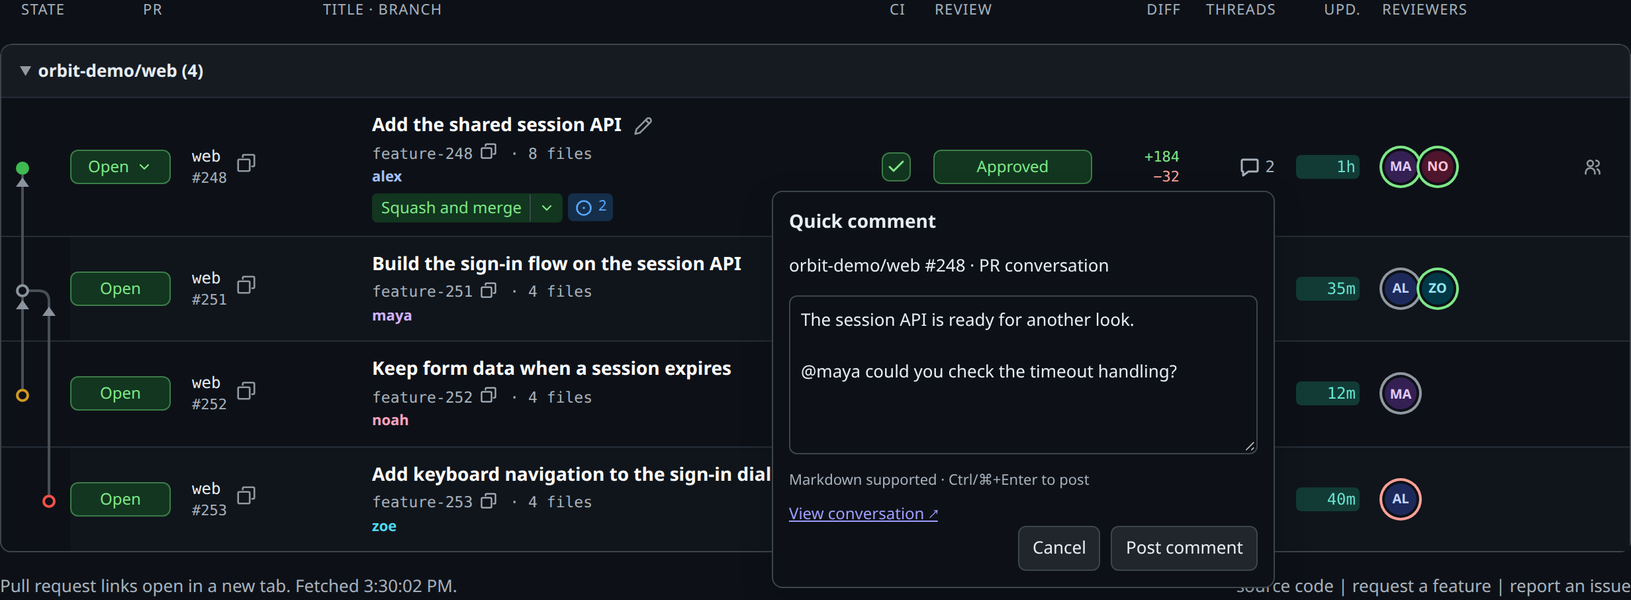
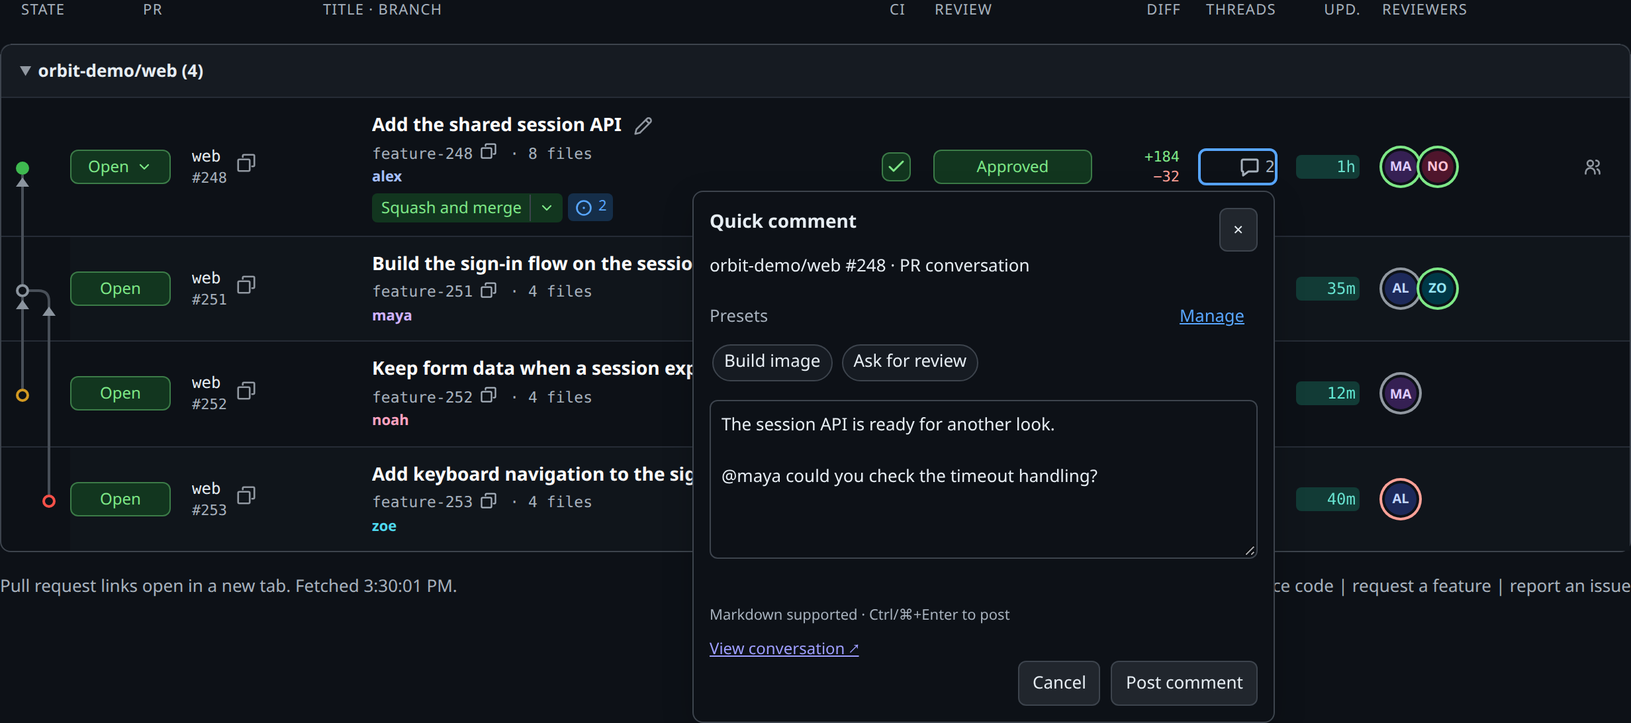
Add scoped quick comment presets to the dashboard

diff --git a/public/quick-presets.js b/public/quick-presets.js
@@ -1,0 +1,34 @@
+import { html, render, repeat, nothing } from './vendor/lit-html.js';
+import { presetErrors, orgPattern, repoPattern } from './preset-model.js';
+export let presets = [];
+let account, editor, deleting, busy=false, status='', retry, undo, errors={};
+const $ = id => document.getElementById(id);
+const focus = id => $(id)?.focus();
+async function request(input) {
+  const r = await fetch('/api/quick-comments', input ? {method:'POST', headers:{'Content-Type':'application/json'}, body:JSON.stringify({...input,account})} : {});
+  const data = await r.json(); if (!r.ok) throw Error(data.error || 'Cannot load quick comments.');
+  account = data.account; presets = data.presets;
+}
+export async function loadPresets() { try { await request(); } catch (e) { status=e.message; retry=loadPresets; } draw(); }
+export function openSettings(create=false) { const d=$('settings-dialog'); if (!d.open) d.showModal(); if(create) edit(); else draw(); }
+function reset(){ editor=null; deleting=null; errors={}; retry=null; undo=null; status=''; }
+function edit(p){ reset(); editor={...p,label:p?.label??'',body:p?.body??'', scoped:p?.repos!==undefined||p?.orgs!==undefined,repos:[...(p?.repos??[])],orgs:[...(p?.orgs??[])],pending:{repos:'',orgs:''}};draw();focus('pf-label'); }
+function cancel(){const id=editor?.id, del=deleting;reset();draw();focus(del?'del-'+del:id?'edit-'+id:'new-preset');}
+async function change(input,done){if(busy)return;busy=true;retry=null;status='Saving…';draw();try{await request(input);busy=false;reset();done();}catch(e){busy=false;status=input.action==='save'?`Couldn’t save “${input.label}”. Your changes are still in the form. ${e.message}`:e.message;retry=()=>change(input,done);draw();}}
+function token(k){const v=editor.pending[k].trim();if(!v)return true;const ok=k==='repos'?repoPattern:orgPattern;
+  if(!ok.test(v)) errors[k]=k==='repos'?'Use owner/name, like nyxlabs/nyx.':'Use an org or user name, like nyxlabs.';
+  else if(editor[k].some(x=>x.toLowerCase()===v.toLowerCase()))errors[k]=`${v} is already added.`;
+  else{editor[k].push(v);editor.pending[k]='';delete errors[k];delete errors.scope;}draw();focus('pf-'+k);return !errors[k];}
+function submit(e){e.preventDefault();const {id,label,body,scoped}=editor;errors={};if(scoped){for(const k of ['repos','orgs'])token(k);}const p={id,label,body,...(scoped?{repos:editor.repos,orgs:editor.orgs}:{})};errors={...presetErrors(p,presets),...errors};if(Object.keys(errors).length){draw();focus('pf-'+(['label','body','repos','orgs','scope'].find(k=>errors[k])));return;}void change({action:'save',...p},()=>{status=`${id?'Saved':'Added'} “${label.trim()}”.`;draw();focus('edit-'+presets.find(x=>x.label===label.trim()).id);});}
+function move(p,delta){void change({action:'move',id:p.id,delta},()=>{status=`Moved “${p.label}” to position ${presets.findIndex(x=>x.id===p.id)+1} of ${presets.length}.`;draw();focus('edit-'+p.id);});}
+function remove(p,i){void change({action:'delete',id:p.id},()=>{status=`Deleted “${p.label}”.`;undo=()=>change({action:'restore',...p,position:i},()=>{status=`Restored “${p.label}”.`;draw();focus('edit-'+p.id);});draw();focus('undo-preset');});}
+function preview(p){if(!p.scoped)return 'Shows on every pull request.';const parts=[p.repos.length&&'PRs in '+p.repos.join(' or '),p.orgs.length&&'any repo owned by '+p.orgs.join(' or ')].filter(Boolean);return parts.length?'Shows on '+parts.join(', or in ')+'.':'No repositories selected.';}
+function msg(k){return html`<small class="preset-error" id=${'msg-'+k}>${errors[k]??''}</small>`;}
+function tokens(k){return html`<label for=${'pf-'+k}>${k==='repos'?'Repositories':'Organizations or users'}</label><div class="preset-tokens">${editor[k].map(v=>html`<button type="button" aria-label=${'Remove '+v} @click=${()=>{editor[k]=editor[k].filter(x=>x!==v);draw();focus('pf-'+k);}}>${v} ×</button>`)}<input id=${'pf-'+k} aria-invalid=${!!errors[k]} aria-describedby=${'msg-'+k} placeholder=${k==='repos'?'owner/name':'org or user'} .value=${editor.pending[k]} @input=${e=>{editor.pending[k]=e.target.value;delete errors[k];draw();}} @keydown=${e=>{if(e.key==='Enter'){e.preventDefault();token(k);}}}><button type="button" @click=${()=>token(k)}>Add</button></div>${msg(k)}`;}
+function form(){return html`<form class="preset-form" novalidate @submit=${submit}><fieldset ?disabled=${busy}><legend>${editor.id?'Edit':'New'} preset</legend><label for="pf-label">Label</label><input id="pf-label" maxlength="40" placeholder="Build image" aria-invalid=${!!errors.label} aria-describedby="msg-label" .value=${editor.label} @input=${e=>{editor.label=e.target.value;delete errors.label;draw();}}>${msg('label')}<label for="pf-body">Comment body</label><textarea id="pf-body" maxlength="4000" placeholder="[docker-build]" aria-invalid=${!!errors.body} aria-describedby="msg-body" .value=${editor.body} @input=${e=>{editor.body=e.target.value;delete errors.body;draw();}}></textarea>${msg('body')}<fieldset><legend>Show on</legend>${[false,true].map(s=>html`<label><input type="radio" name="scope" .checked=${s===editor.scoped} @change=${()=>{editor.scoped=s;errors={};draw();if(s)focus('pf-repos');}}> ${s?'Only these repositories or organizations':'Every repository'}</label>`)}</fieldset>${editor.scoped?html`${tokens('repos')}${tokens('orgs')}`:nothing}<p id="pf-scope" tabindex="-1">${preview(editor)}</p>${msg('scope')}<div class="preset-actions"><button type="button" @click=${cancel}>Cancel</button><button class="primary" type="submit">${busy?'Saving…':'Save preset'}</button></div></fieldset></form>`;}
+function row(p,i){if(editor?.id===p.id)return form();if(deleting===p.id)return html`<strong>Delete “${p.label}”?</strong><p>This removes the preset, not any posted comments.</p><button @click=${cancel}>Cancel</button> <button class="preset-error" id="confirm-preset" @click=${()=>remove(p,i)}>Delete preset</button>`;
+  const tags=[...(p.repos??[]),...(p.orgs??[]).map(o=>'org '+o)];if(!tags.length)tags.push(p.repos||p.orgs?'No repositories':'All repositories');
+  return html`<div class="preset-item"><span class="preset-number">${i+1}</span><div><strong>${p.label}</strong><code>${p.body}</code><small>Shows on ${tags.slice(0,3).map(t=>html`<span class="scope-badge">${t}</span>`)} ${tags.length>3?html`<span title=${tags.slice(3).join(', ')}>+${tags.length-3} more</span>`:nothing}</small></div><div class="preset-actions"><button aria-label=${'Move '+p.label+' up'} ?disabled=${busy||!i} @click=${()=>move(p,-1)}>↑</button><button aria-label=${'Move '+p.label+' down'} ?disabled=${busy||i===presets.length-1} @click=${()=>move(p,1)}>↓</button><button id=${'edit-'+p.id} ?disabled=${busy} @click=${()=>edit(p)}>Edit</button><button id=${'del-'+p.id} ?disabled=${busy} @click=${()=>{reset();deleting=p.id;draw();focus('confirm-preset');}}>Delete</button></div></div>`;}
+function draw(){render(html`<div class="preset-heading"><div><h2>Quick comment presets</h2><p>Save comments you post often. Presets appear in this order on matching pull requests.</p></div>${presets.length?html`<button class="primary" id="new-preset" ?disabled=${busy} @click=${()=>edit()}>+ Add preset</button>`:nothing}</div><div class="preset-status" role="status">${status} ${retry?html`<button @click=${retry}>Retry</button>`:undo?html`<button id="undo-preset" @click=${undo}>Undo</button>`:nothing}</div>${editor&&!editor.id?form():nothing}${!presets.length&&!editor?html`<div class="preset-empty"><strong>No presets yet</strong><p>Save comments you post often, like [docker-build] or @claude_review.</p><button class="primary" id="new-preset" @click=${()=>edit()}>Create your first preset</button></div>`:nothing}<ol class="preset-list">${repeat(presets,p=>p.id,(p,i)=>html`<li>${row(p,i)}</li>`)}</ol><small>Saved to your local config for this GitHub account.</small>`,$('quick-comment-editor'));}
+$('settings-dialog').addEventListener('cancel',e=>{if(busy||editor||deleting){e.preventDefault();if(!busy)cancel();}});
+$('settings-dialog').addEventListener('close',reset);

diff --git a/public/comments.js b/public/comments.js
@@ -1,10 +1,14 @@
-import { html, render, nothing } from './vendor/lit-html.js';
+import { html, render, repeat, nothing } from './vendor/lit-html.js';
 import { actionButton, formField, formError, formActions } from './controls.js';
 import { githubUrl } from './templates.js';
+import { insertPreset } from './preset-model.js';
+import { presets, openSettings } from './quick-presets.js';
+import { matchesQuickComment } from './quick-comment-scope.js';
 import { createPopover } from './popover.js';
 
 export function createCommentControls({ changes, submit, onClose }) {
-  let active;
+  let active, more=false, filter='', note='';
+  const narrow=matchMedia('(max-width: 37.5em)'); narrow.addEventListener('change',()=>content());
   const popover = createPopover({ id: 'quick-comment', className: 'comment-popover', label: 'Quick comment', align: 'end',
     onClose() {
       if (!active) return;
@@ -16,17 +20,25 @@ export function createCommentControls({ changes, submit, onClose }) {
   function content() {
     const pr = active, draft = pr && changes.get(pr.id);
     if (!draft) return;
+    const all=presets.filter(p=>matchesQuickComment(p,pr.repo)), limit=narrow.matches?3:5;
+    const shown=all.length>limit+1?all.slice(0,limit):all, rest=all.slice(shown.length);
+    const results=(filter.trim()?all:rest).filter(p=>(p.label+' '+p.body).toLowerCase().includes(filter.trim().toLowerCase()));
+    const pick=p=>{if(draft.saving)return;const next=insertPreset(draft.value,p.body);note=next===draft.value?`“${p.label}” is already in the draft. Nothing added.`:next.length>4000?'This preset would exceed the comment length limit.':`Inserted “${p.label}”. Review it, then post.`;if(next.length<=4000)draft.value=next;more=false;filter='';content();const t=popover.panel.querySelector('textarea');t.focus();t.setSelectionRange(t.value.length,t.value.length);};
+    const toggle=()=>{more=!more;filter='';content();popover.panel.querySelector(more?'.preset-filter':'.preset-more')?.focus();};
+    const manage=(create=false)=>{popover.close();openSettings(create);};
     render(html`<form @submit=${event => {
       event.preventDefault();
       if (!draft.saving && draft.value.trim()) void submit(pr, draft);
     }} @keydown=${event => {
+      if(event.key==='Escape' && more){event.preventDefault();event.stopPropagation();toggle();return;}
       if ((event.ctrlKey || event.metaKey) && event.key === 'Enter') { event.preventDefault(); event.currentTarget.requestSubmit(); }
     }}>
-      <h2>Quick comment</h2>
+      <button type="button" class="preset-close" aria-label="Close quick comment" @click=${()=>popover.close()}>×</button><h2>Quick comment</h2>
       <p class="form-description">${pr.repo} #${pr.number} · PR conversation</p>
+      ${document.getElementById('settings').hidden?nothing:html`<div class="preset-picker" role="group" aria-label="Presets"><div class="preset-caption">Presets <button type="button" @click=${()=>manage()}>Manage</button></div>${shown.length?html`<div class="preset-chips">${repeat(shown,p=>p.id,p=>html`<button type="button" ?disabled=${draft.saving} class=${draft.value.includes(p.body)?'in-draft':''} aria-label=${p.label+(draft.value.includes(p.body)?', already in draft':', inserts '+p.body)} title=${'Inserts: '+p.body} @click=${()=>pick(p)}>${draft.value.includes(p.body)?'✓ ':''}${p.label}</button>`)}${rest.length?html`<button class="preset-more" type="button" aria-expanded=${more} @click=${toggle}>More (${rest.length}) ▾</button>`:nothing}</div>`:html`<p class="preset-hint">${presets.length?`None of your ${presets.length} presets apply to ${pr.repo}.`:'No presets yet. Save comments you post often, like [docker-build], and they appear here.'} <button type="button" @click=${()=>manage(!presets.length)}>${presets.length?'Edit scopes':'Create a preset'}</button></p>`}${more&&rest.length?html`<div class="preset-overflow"><label>All presets for ${pr.repo}<input class="preset-filter" placeholder="Filter presets…" .value=${filter} @input=${e=>{filter=e.target.value;content();}} @keydown=${e=>{if(e.key==='Enter'){e.preventDefault();if(results[0])pick(results[0]);}}}></label>${repeat(results,p=>p.id,p=>html`<button type="button" @click=${()=>pick(p)}>${p.label} · <code>${p.body}</code></button>`)}${results.length?nothing:`No presets match “${filter}”.`}</div>`:nothing}</div>`}
       ${formField({ label: 'Comment', value: draft.value, multiline: true, maxLength: 4000, disabled: draft.saving,
-        onInput(value) { draft.value = value; content(); } })}
-      <p class="comment-help">Markdown supported · Ctrl/⌘+Enter to post</p>
+        onInput(value) { draft.value = value; note=''; content(); } })}
+      <div class="preset-note" role="status">${note}</div><p class="comment-help">Markdown supported · Ctrl/⌘+Enter to post</p>
       ${formError(draft.error)}
       <a class="comment-conversation" href=${githubUrl(pr.url)} target="_blank" rel="noopener noreferrer">View conversation ↗</a>
       ${formActions({ saving: draft.saving, disabled: !draft.value.trim(), submitLabel: 'Post comment', pendingLabel: 'Posting…', onCancel() {
@@ -49,7 +61,7 @@ export function createCommentControls({ changes, submit, onClose }) {
           if (active && active.id !== pr.id) {
             const previous = changes.get(active.id); if (previous) previous.editing = false;
           }
-          active = pr;
+          active = pr; more=false; filter=''; note='';
           const draft = changes.get(pr.id) ?? { value: '', saving: false, error: '' };
           draft.editing = true; changes.set(pr.id, draft);
           popover.attach(event.currentTarget); content();

diff --git a/public/presets.css b/public/presets.css
@@ -1,0 +1,1 @@
+#settings-dialog{color:var(--color-text);background:var(--color-page);border:1px solid var(--color-border);border-radius:10px;width:min(780px,calc(100% - 24px));max-height:90dvh;padding:0;overscroll-behavior:contain}#settings-dialog::backdrop{background:#0008;overflow:hidden;overscroll-behavior:contain}.preset-top,.preset-heading,.preset-caption,.preset-actions{display:flex;align-items:center;justify-content:space-between;gap:8px}.preset-top{padding:12px 18px;border-bottom:1px solid var(--color-border);background:var(--color-surface)}#quick-comment-editor{padding:18px}#quick-comment-editor h2{margin:0;font-size:1.05rem}#quick-comment-editor p{margin:4px 0 12px;color:var(--color-muted)}.preset-heading button,.preset-actions button{white-space:nowrap}.preset-list{list-style:none;padding:0;margin:10px 0;border:1px solid var(--color-border);border-radius:8px;overflow:hidden}.preset-list:empty{display:none}.preset-list li{padding:12px}.preset-list li+li{border-top:1px solid var(--color-divider)}.preset-item{display:grid;grid-template-columns:1.5rem minmax(0,1fr) auto;align-items:start;gap:8px}.preset-item code{display:block;white-space:pre-wrap;overflow-wrap:anywhere;color:var(--color-muted)}.preset-item small,.preset-number{color:var(--color-muted)}.preset-actions{justify-content:flex-end;flex-wrap:wrap}.scope-badge,.preset-tokens button,.preset-chips button{display:inline-flex;border:1px solid var(--color-border);border-radius:999px;padding:2px 8px;margin:2px;background:var(--color-surface)}.preset-form{padding:12px;border:1px solid var(--color-border);border-radius:8px;background:var(--color-surface)}.preset-form>fieldset{border:0;min-width:0;padding:0}.preset-form label,.preset-form textarea,.preset-form input:not([type=radio]){display:block}.preset-form label{margin-top:8px;font-weight:600}.preset-form input:not([type=radio]),.preset-form textarea,.preset-filter{box-sizing:border-box;width:100%;padding:7px;background:var(--color-page);color:var(--color-text);border:1px solid var(--color-border);border-radius:6px;font:inherit}.preset-form textarea{min-height:70px}.preset-form fieldset fieldset{margin:8px 0;border:1px solid var(--color-divider)}.preset-tokens,.preset-chips{display:flex;flex-wrap:wrap;align-items:center;gap:3px}.preset-tokens input{flex:1;min-width:8em}.preset-error,[aria-invalid=true]{color:var(--color-danger,#cf4545)}.preset-note,.preset-status{min-height:1.3em;font-size:.8rem}.preset-empty,.preset-hint{padding:10px;border:1px dashed var(--color-border);border-radius:8px}.preset-empty{text-align:center;padding:28px}.preset-picker{margin:12px 0}.preset-caption{color:var(--color-muted);font-size:.8rem;margin-bottom:4px}.preset-caption button,.preset-hint button{background:transparent;border:0;color:var(--color-accent);text-decoration:underline}.preset-chips button{min-height:28px}.preset-chips .in-draft{color:var(--color-success,#299854);border-color:currentColor}.preset-close{float:right}.preset-overflow{padding:8px;margin-top:6px;border:1px solid var(--color-border);border-radius:6px;max-height:12rem;overflow:auto}.preset-overflow button{display:block;width:100%;text-align:left}.comment-count[aria-expanded=true]{outline:2px solid var(--color-accent)}.comment-popover{max-height:90dvh;overflow:auto;width:min(440px,calc(100vw - 16px))}@media(max-width:37.5em){.preset-item{grid-template-columns:1.5rem minmax(0,1fr)}.preset-item .preset-actions{grid-column:2;justify-content:start}.pr-row button.comment-count{min-height:32px}.pr-row button.comment-count:after{content:'Comment'}.comment-popover{width:calc(100vw - 16px)}.preset-heading{align-items:start}.preset-heading p{font-size:.85rem}}

diff --git a/public/index.html b/public/index.html
@@ -12,12 +12,17 @@
   <link rel="preload" href="/fonts/InterVariable-4.1.woff2" as="font" type="font/woff2" crossorigin>
   <link rel="stylesheet" href="/theme.css">
   <link rel="stylesheet" href="/style.css">
+  <link rel="stylesheet" href="/presets.css">
   <link rel="stylesheet" href="/query-editor.css">
   <script type="module" src="/app.js"></script>
 </head>
 <body>
   <div id="sticky-top">
-    <header><div><h1>gh-pull</h1><p class="subtitle">much better github pr dashboard</p></div><div class="account-controls"><a id="install" class="button-link" hidden target="_blank" rel="noopener noreferrer">Manage repository access</a><button id="logout" type="button" hidden>Sign out</button><button id="refresh" type="button" data-tooltip="Refresh" aria-label="Refresh" hidden><svg viewBox="0 0 36 36" fill="none" stroke="currentColor" stroke-width="1.5" stroke-linecap="round" stroke-linejoin="round" aria-hidden="true"><path d="M6.7 11.5A13 13 0 0 1 29.3 11.5M29.3 6.5v5h-5M29.3 24.5A13 13 0 0 1 6.7 24.5M6.7 29.5v-5h5"/></svg><span id="refresh-countdown" aria-hidden="true">60</span></button></div></header>
+    <header><div><h1>gh-pull</h1><p class="subtitle">much better github pr dashboard</p></div><div class="account-controls"><button type="button" id="settings" aria-haspopup="dialog" hidden>Settings</button><a id="install" class="button-link" hidden target="_blank" rel="noopener noreferrer">Manage repository access</a><button id="logout" type="button" hidden>Sign out</button><button id="refresh" type="button" data-tooltip="Refresh" aria-label="Refresh" hidden><svg viewBox="0 0 36 36" fill="none" stroke="currentColor" stroke-width="1.5" stroke-linecap="round" stroke-linejoin="round" aria-hidden="true"><path d="M6.7 11.5A13 13 0 0 1 29.3 11.5M29.3 6.5v5h-5M29.3 24.5A13 13 0 0 1 6.7 24.5M6.7 29.5v-5h5"/></svg><span id="refresh-countdown" aria-hidden="true">60</span></button></div></header>
+    <dialog id="settings-dialog" aria-labelledby="settings-heading">
+      <div class="preset-top"><strong id="settings-heading">gh-pull　/　Settings</strong><form method="dialog"><button type="submit">← Back to dashboard</button></form></div>
+      <section id="quick-comment-editor" aria-label="Quick comment presets"></section>
+    </dialog>
     <p id="auth-notice" role="alert" hidden></p>
     <p id="update-notice" role="status" hidden><a id="update-release" target="_blank" rel="noopener noreferrer"></a> is available. To update, run <button id="copy-update-command" type="button" data-tooltip="Copy update command" aria-label="Copy update command"><code id="update-command">gh pull stop &amp;&amp; gh extension upgrade pull &amp;&amp; gh pull</code> <span id="update-copy-symbol" aria-hidden="true"></span></button> in your terminal. <span id="update-copy-feedback"></span></p>
     <section id="signin" hidden aria-label="Sign in">

diff --git a/saved-views.js b/saved-views.js
@@ -2,6 +2,7 @@ import { mkdir, readFile, writeFile, rename, rm } from 'node:fs/promises';
 import { dirname, join } from 'node:path';
 import { homedir } from 'node:os';
 import { randomUUID } from 'node:crypto';
+import { presetErrors } from './public/preset-model.js';
 import lockfile from 'proper-lockfile';
 import { ApiError } from './github-client.js';
 import { DEFAULT_QUERY, normalizeQuery } from './public/query.js';
@@ -57,6 +58,31 @@ export function createSavedViewsStore(path = defaultSavedViewsPath(), now = () =
     } finally { await rm(temporary, { force: true }); await release(); }
   }
   return {
+    async quickComments(account) { return (await read()).accounts.find(a => a.login === account.toLowerCase())?.presets ?? []; },
+    async changeQuickComment(account, input) {
+      const { action, id, label, body, repos, orgs, delta, position } = input;
+      if (!['save', 'delete', 'move', 'restore'].includes(action)) throw new ApiError('Unknown preset action.', 400);
+      return write(data => {
+        const login = account.toLowerCase();
+        let entry = data.accounts.find(a => a.login === login);
+        if (!entry) { entry = newEntry(login); data.accounts.push(entry); }
+        const presets = entry.presets ??= [], i = presets.findIndex(p => p.id === id);
+        if (action === 'restore' && (typeof id !== 'string' || !id || id.length > 100 || i >= 0 || !Number.isSafeInteger(position) || position < 0)) throw new ApiError('Cannot restore this preset.', 409);
+        if (action !== 'restore' && (id !== undefined || action !== 'save') && i < 0) throw new ApiError('Preset no longer exists.', 404);
+        if (action === 'delete') presets.splice(i, 1);
+        else if (action === 'move') {
+          if (![-1,1].includes(delta) || i + delta < 0 || i + delta >= presets.length) throw new ApiError('Cannot move this preset.', 409);
+          presets.splice(i + delta, 0, ...presets.splice(i, 1));
+        } else {
+          const errors = presetErrors(input, presets);
+          if (action === 'restore') delete errors.scope;
+          if (Object.keys(errors).length) throw new ApiError(Object.values(errors)[0], 400);
+          const p = {id: id ?? randomUUID(), label: label.trim(), body, repos, orgs};
+          presets.splice(i >= 0 ? i : action === 'restore' ? position : presets.length, i >= 0 ? 1 : 0, p);
+        }
+        return presets;
+      });
+    },
     async list(account) {
       const login = account.toLowerCase(), data = await read();
       const entry = data.accounts.find(a => a.login === login);

diff --git a/server.js b/server.js
@@ -74,7 +74,7 @@ export function createApp({ savedViews = createSavedViewsStore(), list = createG
       if (auth && url.pathname.startsWith('/api/') && !session) throw new ApiError('Please sign in with GitHub.', 401);
       const activeList = session ? session.list : list;
       const cache = session ? session.cache : localCache;
-      if (url.pathname === '/api/saved-views') {
+      if (['/api/saved-views', '/api/quick-comments'].includes(url.pathname)) {
         if (auth) return send(404, { error: 'Saved views are available in local mode.' });
         if (!['GET', 'POST'].includes(req.method)) return send(405, { error: 'Method not allowed.' });
         let input;
@@ -84,7 +84,7 @@ export function createApp({ savedViews = createSavedViewsStore(), list = createG
           const chunks = []; let size = 0;
           for await (const chunk of req) {
             size += chunk.length;
-            if (size > 8192) throw new ApiError('Request body is too large.', 413);
+            if (size > (url.pathname === '/api/quick-comments' ? 32768 : 8192)) throw new ApiError('Request body is too large.', 413);
             chunks.push(chunk);
           }
           try { input = JSON.parse(Buffer.concat(chunks).toString('utf8')); }
@@ -93,6 +93,7 @@ export function createApp({ savedViews = createSavedViewsStore(), list = createG
         if (!activeList.viewer) throw new ApiError('Could not identify the GitHub account.', 503);
         const account = await activeList.viewer();
         if (input && input.account !== account) throw new ApiError('GitHub account changed. Reopen Views and try again.', 409);
+        if (url.pathname === '/api/quick-comments') return send(200, { account, presets: req.method === 'GET' ? await savedViews.quickComments(account) : await savedViews.changeQuickComment(account, input) });
         return send(200, { account, views: req.method === 'GET' ? rankSavedViews(await savedViews.list(account)) : await savedViews.change(account, input) });
       }
       const mutation = mutations.get(url.pathname);

diff --git a/test/quick-comment-store.test.js b/test/quick-comment-store.test.js
@@ -1,0 +1,31 @@
+import test from 'node:test';
+import assert from 'node:assert/strict';
+import { mkdtemp, rm } from 'node:fs/promises';
+import { tmpdir } from 'node:os';
+import { join } from 'node:path';
+import { createSavedViewsStore } from '../saved-views.js';
+import { insertPreset } from '../public/preset-model.js';
+
+test('preset mutations preserve order, account isolation and saved views', async t => {
+  const dir = await mkdtemp(join(tmpdir(), 'quick-preset-test-'));
+  t.after(() => rm(dir, { recursive:true, force:true }));
+  const path = join(dir, 'settings.json'), store = createSavedViewsStore(path);
+  const views = await store.list('alex');
+  const change = input => store.changeQuickComment('Alex', input);
+  const [a] = await change({ action:'save', label:'Build', body:'[build]' });
+  const [,b] = await change({ action:'save', label:'Lint', body:'[lint]', orgs:['orbit'] });
+  await assert.rejects(change({ action:'save', label:'BUILD', body:'x' }), /already exists/);
+  await assert.rejects(change({ action:'save', label:'Bad', body:'x', repos:['orbit'] }), /owner\/name/);
+  await assert.rejects(change({ action:'save', label:'Bad', body:'x', orgs:[] }), /Every repository/);
+  await change({ action:'move', id:b.id, delta:-1 });
+  await change({ action:'delete', id:b.id });
+  await change({ action:'restore', position:0, ...b });
+  assert.deepEqual(await createSavedViewsStore(path).quickComments('alex'), JSON.parse(JSON.stringify([b,a])));
+  assert.deepEqual(await store.quickComments('sam'), []);
+  assert.deepEqual(await store.list('Alex'), views);
+});
+test('insert preserves existing content and never repeats a preset body', () => {
+  assert.equal(insertPreset('  ', '[build]'), '[build]');
+  assert.equal(insertPreset('  Hello  \n', '[build]'), '  Hello\n[build]');
+  assert.equal(insertPreset('Hello [build]!', '[build]'), 'Hello [build]!');
+});

diff --git a/public/app.js b/public/app.js
@@ -1,3 +1,4 @@
+import { loadPresets, openSettings } from './quick-presets.js';
 import { createCommentControls } from './comments.js';
 import { installTooltips } from './tooltip.js';
 import { createReviewerManager } from './reviewer-manager.js';
@@ -19,8 +20,11 @@ import { queryFromParams, queryPresets, setQueryPreset, normalizeQuery, queryErr
 
 const $ = id => document.getElementById(id);
 installTooltips();
+$('settings').addEventListener('click', () => openSettings());
 observeStickyTop($('sticky-top'));
 function showDashboard(visible) {
+  $('settings').hidden = !visible || authMode !== 'local';
+  if (!visible && $('settings-dialog').open) $('settings-dialog').close();
   $('dashboard').hidden = !visible;
   $('dashboard-controls').hidden = !visible;
   $('summary').hidden = !visible;
@@ -259,7 +263,7 @@ const commentControls = createCommentControls({
   onClose(id) { renderEditorRow(id); polling.invalidate(); },
   async submit(pr, draft) {
     await changePull(pr, commentChanges, {
-      action: 'comment', input: { body: draft.value.trim() }, message: 'Comment posted',
+      action: 'comment', input: { body: draft.value.trim() }, message: `Comment posted to ${pr.repo} #${pr.number}.`,
       apply(current, data) { if (current) Object.assign(current, data); },
       onSuccess() { commentControls.reset(); focusTitleControl(pr.id, '.comment-count'); },
       onError: commentControls.recover,
@@ -708,6 +712,7 @@ async function initializeSession() {
     if (notice) $('auth-notice').textContent = notice;
     $('session-status').hidden = true;
     if (authenticated) {
+      if (authMode === 'local') await loadPresets();
       await initializeQueryEditor();
       showDashboard(true);
       await load();

diff --git a/public/preset-model.js b/public/preset-model.js
@@ -1,0 +1,16 @@
+export const repoPattern = /^[A-Za-z0-9][A-Za-z0-9-]{0,38}\/[A-Za-z0-9._-]{1,100}$/;
+export const orgPattern = /^[A-Za-z0-9][A-Za-z0-9-]{0,38}$/;
+export function presetErrors(p, others) {
+  const errors = {};
+  if (typeof p.label !== 'string' || !p.label.trim()) errors.label = 'Enter a label.';
+  else if (p.label.trim().length > 40) errors.label = 'Use at most 40 characters.';
+  else if (others.some(x => x.id !== p.id && x.label.toLowerCase() === p.label.trim().toLowerCase())) errors.label = `A preset named “${p.label.trim()}” already exists.`;
+  if (typeof p.body !== 'string' || !p.body.trim()) errors.body = 'Enter the comment text to insert.';
+  else if (p.body.length > 4000) errors.body = 'Use at most 4000 characters.';
+  for (const [key, pattern, message] of [['repos', repoPattern, 'Use owner/name, like nyxlabs/nyx.'], ['orgs', orgPattern, 'Use an org or user name, like nyxlabs.']]) {
+    if (p[key] !== undefined && (!Array.isArray(p[key]) || p[key].some(x => typeof x !== 'string' || !pattern.test(x)))) errors[key] = message;
+  }
+  if ((p.repos !== undefined || p.orgs !== undefined) && !p.repos?.length && !p.orgs?.length) errors.scope = 'Add a repository or an org, or choose Every repository.';
+  return errors;
+}
+export function insertPreset(draft, body) { return draft.includes(body) ? draft : draft.trim() ? `${draft.trimEnd()}\n${body}` : body; }

diff --git a/test/quick-comment-scope.test.js b/test/quick-comment-scope.test.js
@@ -1,0 +1,24 @@
+import test from 'node:test';
+import assert from 'node:assert/strict';
+import { matchesQuickComment } from '../public/quick-comment-scope.js';
+
+// Rows and columns: omitted, empty, populated non-match, populated match.
+const repos = [undefined, [], ['other/api', 'acme/api-tools'], ['other/tools', 'ACME/Api']];
+const orgs = [undefined, [], ['acme-tools', 'other'], ['other', 'AcMe']];
+const expected = [
+  [true,  false, false, true],
+  [false, false, false, true],
+  [false, false, false, true],
+  [true,  true,  true,  true],
+];
+const names = ['omitted', 'empty', 'miss', 'match'];
+for (const [r, repoList] of repos.entries()) {
+  for (const [o, orgList] of orgs.entries()) {
+    test(`quick comment: repos ${names[r]}, orgs ${names[o]}`, () => {
+      const scope = {};
+      if (repoList !== undefined) scope.repos = repoList;
+      if (orgList !== undefined) scope.orgs = orgList;
+      assert.equal(matchesQuickComment(scope, 'acme/api'), expected[r][o]);
+    });
+  }
+}

diff --git a/public-assets.js b/public-assets.js
@@ -20,6 +20,10 @@ export const publicAssets = [
   ['review-counts.js', 'text/javascript'],
   ['reviewer-manager.js', 'text/javascript'],
   ['reviews.js', 'text/javascript'],
+  ['preset-model.js', 'text/javascript'],
+  ['presets.css', 'text/css'],
+  ['quick-presets.js', 'text/javascript'],
+  ['quick-comment-scope.js', 'text/javascript'],
   ['comments.js', 'text/javascript'],
   ['issues.js', 'text/javascript'],
   ['ui.js', 'text/javascript'],

diff --git a/public/quick-comment-scope.js b/public/quick-comment-scope.js
@@ -1,0 +1,7 @@
+// An entirely unscoped preset is global. Once scoped, either list can grant a match.
+export function matchesQuickComment({ repos, orgs }, repository) {
+  if (repos === undefined && orgs === undefined) return true;
+  const repo = repository.toLowerCase();
+  const owner = repo.split('/')[0];
+  return Boolean(repos?.some(name => name.toLowerCase() === repo) || orgs?.some(name => name.toLowerCase() === owner));
+}
